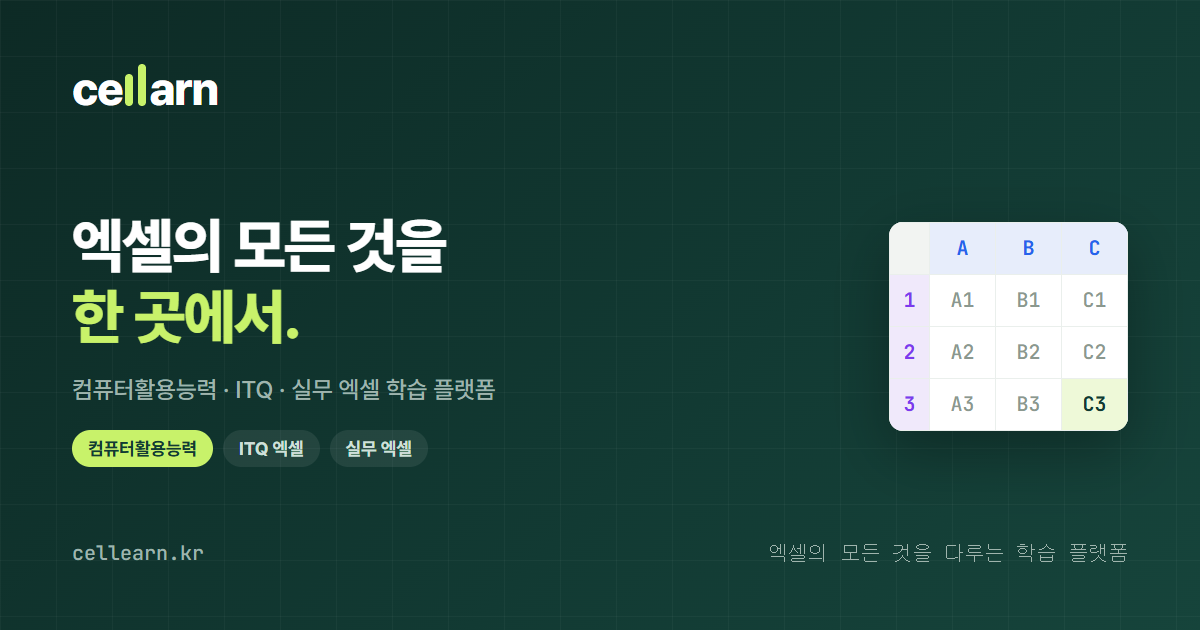
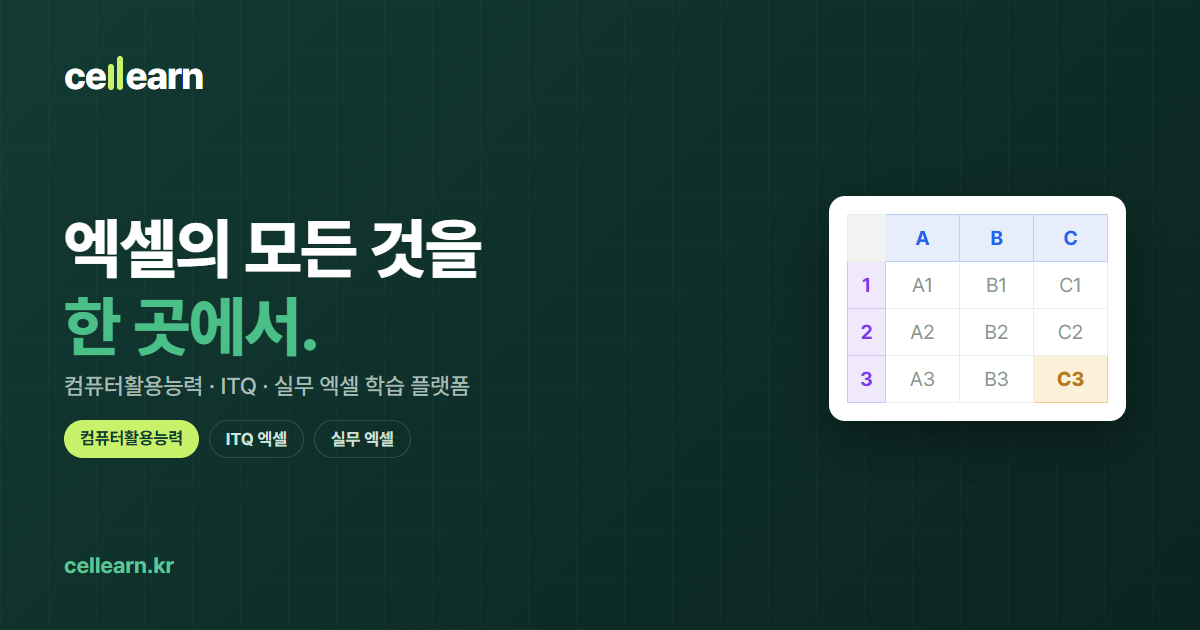
OG 배너 우하단 문구 제거 + 모바일 히어로를 PC와 동일하게
- OG(공유 미리보기) 재렌더: 우하단 '엑셀의 모든 것을 다루는 학습 플랫폼' 워터마크 제거
- og.png 소스를 scripts/render-og.cjs로 추가(puppeteer 렌더) — 앞으로 문구 수정 용이
- 모바일 히어로: '학습 기능은 PC…'/'PC에서 미니엑셀…' placeholder 제거 →
  PC와 동일하게 CTA 버튼 + 실제 미리보기 캐러셀 노출(작은 PC 이용 안내만 유지)

Claude-Session: https://claude.ai/code/session_01TN8H9L4GC6SNFtUunwkJzW

diff --git a/src/components/landing/LandingPage.jsx b/src/components/landing/LandingPage.jsx
@@ -365,28 +365,20 @@ export default function LandingPage({ onStart, onLegal, isAuthed, onSignOut }) {
               파일로 채점받고, 틀린 문제를 다 맞혀야 다음 수업이 열리는 <b style={{ color: UI.ink }}>실기 전용</b> 학습입니다.
             </p>
 
-            {isMobile ? (
-              <div style={{ background: UI.surface, border: `1px solid ${UI.line}`, borderRadius: UI.rMd, padding: "16px 20px", display: "inline-block", fontSize: 14, color: UI.teal, fontWeight: 600 }}>
-                학습 기능은 PC에서 이용할 수 있어요
-              </div>
-            ) : (
-              <div style={{ display: "flex", gap: 18, alignItems: "center", marginTop: "auto" }}>
-                <Btn variant="dark" onClick={goPricing}>2급 실기 시작하기 <ArrowRight size={18} strokeWidth={2} /></Btn>
-                <a href="#pricing" style={{ color: UI.teal, fontWeight: 700, fontSize: 15, textDecoration: "none", display: "inline-flex", alignItems: "center", gap: 4 }}>
-                  10월 1급 오픈 예정 <ArrowRight size={16} strokeWidth={2} />
-                </a>
+            <div style={{ display: "flex", gap: 18, alignItems: "center", marginTop: "auto", flexWrap: "wrap" }}>
+              <Btn variant="dark" onClick={goPricing}>2급 실기 시작하기 <ArrowRight size={18} strokeWidth={2} /></Btn>
+              <a href="#pricing" style={{ color: UI.teal, fontWeight: 700, fontSize: 15, textDecoration: "none", display: "inline-flex", alignItems: "center", gap: 4 }}>
+                10월 1급 오픈 예정 <ArrowRight size={16} strokeWidth={2} />
+              </a>
+            </div>
+            {isMobile && (
+              <div style={{ marginTop: 14, fontSize: 13, color: UI.mut }}>
+                ※ 개념 학습·실습·채점은 PC에서 이용할 수 있어요.
               </div>
             )}
           </div>
-          <div style={{ flex: "1 1 460px", minWidth: 320 }}>
-            {isMobile ? (
-              <div style={{ background: UI.surface, border: `1px solid ${UI.line}`, borderRadius: UI.rLg, padding: 24, textAlign: "center", color: UI.mut }}>
-                <Table2 size={40} strokeWidth={1.5} color={UI.teal} />
-                <div style={{ marginTop: 10, fontSize: 14 }}>PC에서 실제 미니 엑셀을 실습해 보세요</div>
-              </div>
-            ) : (
-              <HeroCarousel />
-            )}
+          <div style={{ flex: "1 1 460px", minWidth: 300 }}>
+            <HeroCarousel />
           </div>
         </div>
       </header>
